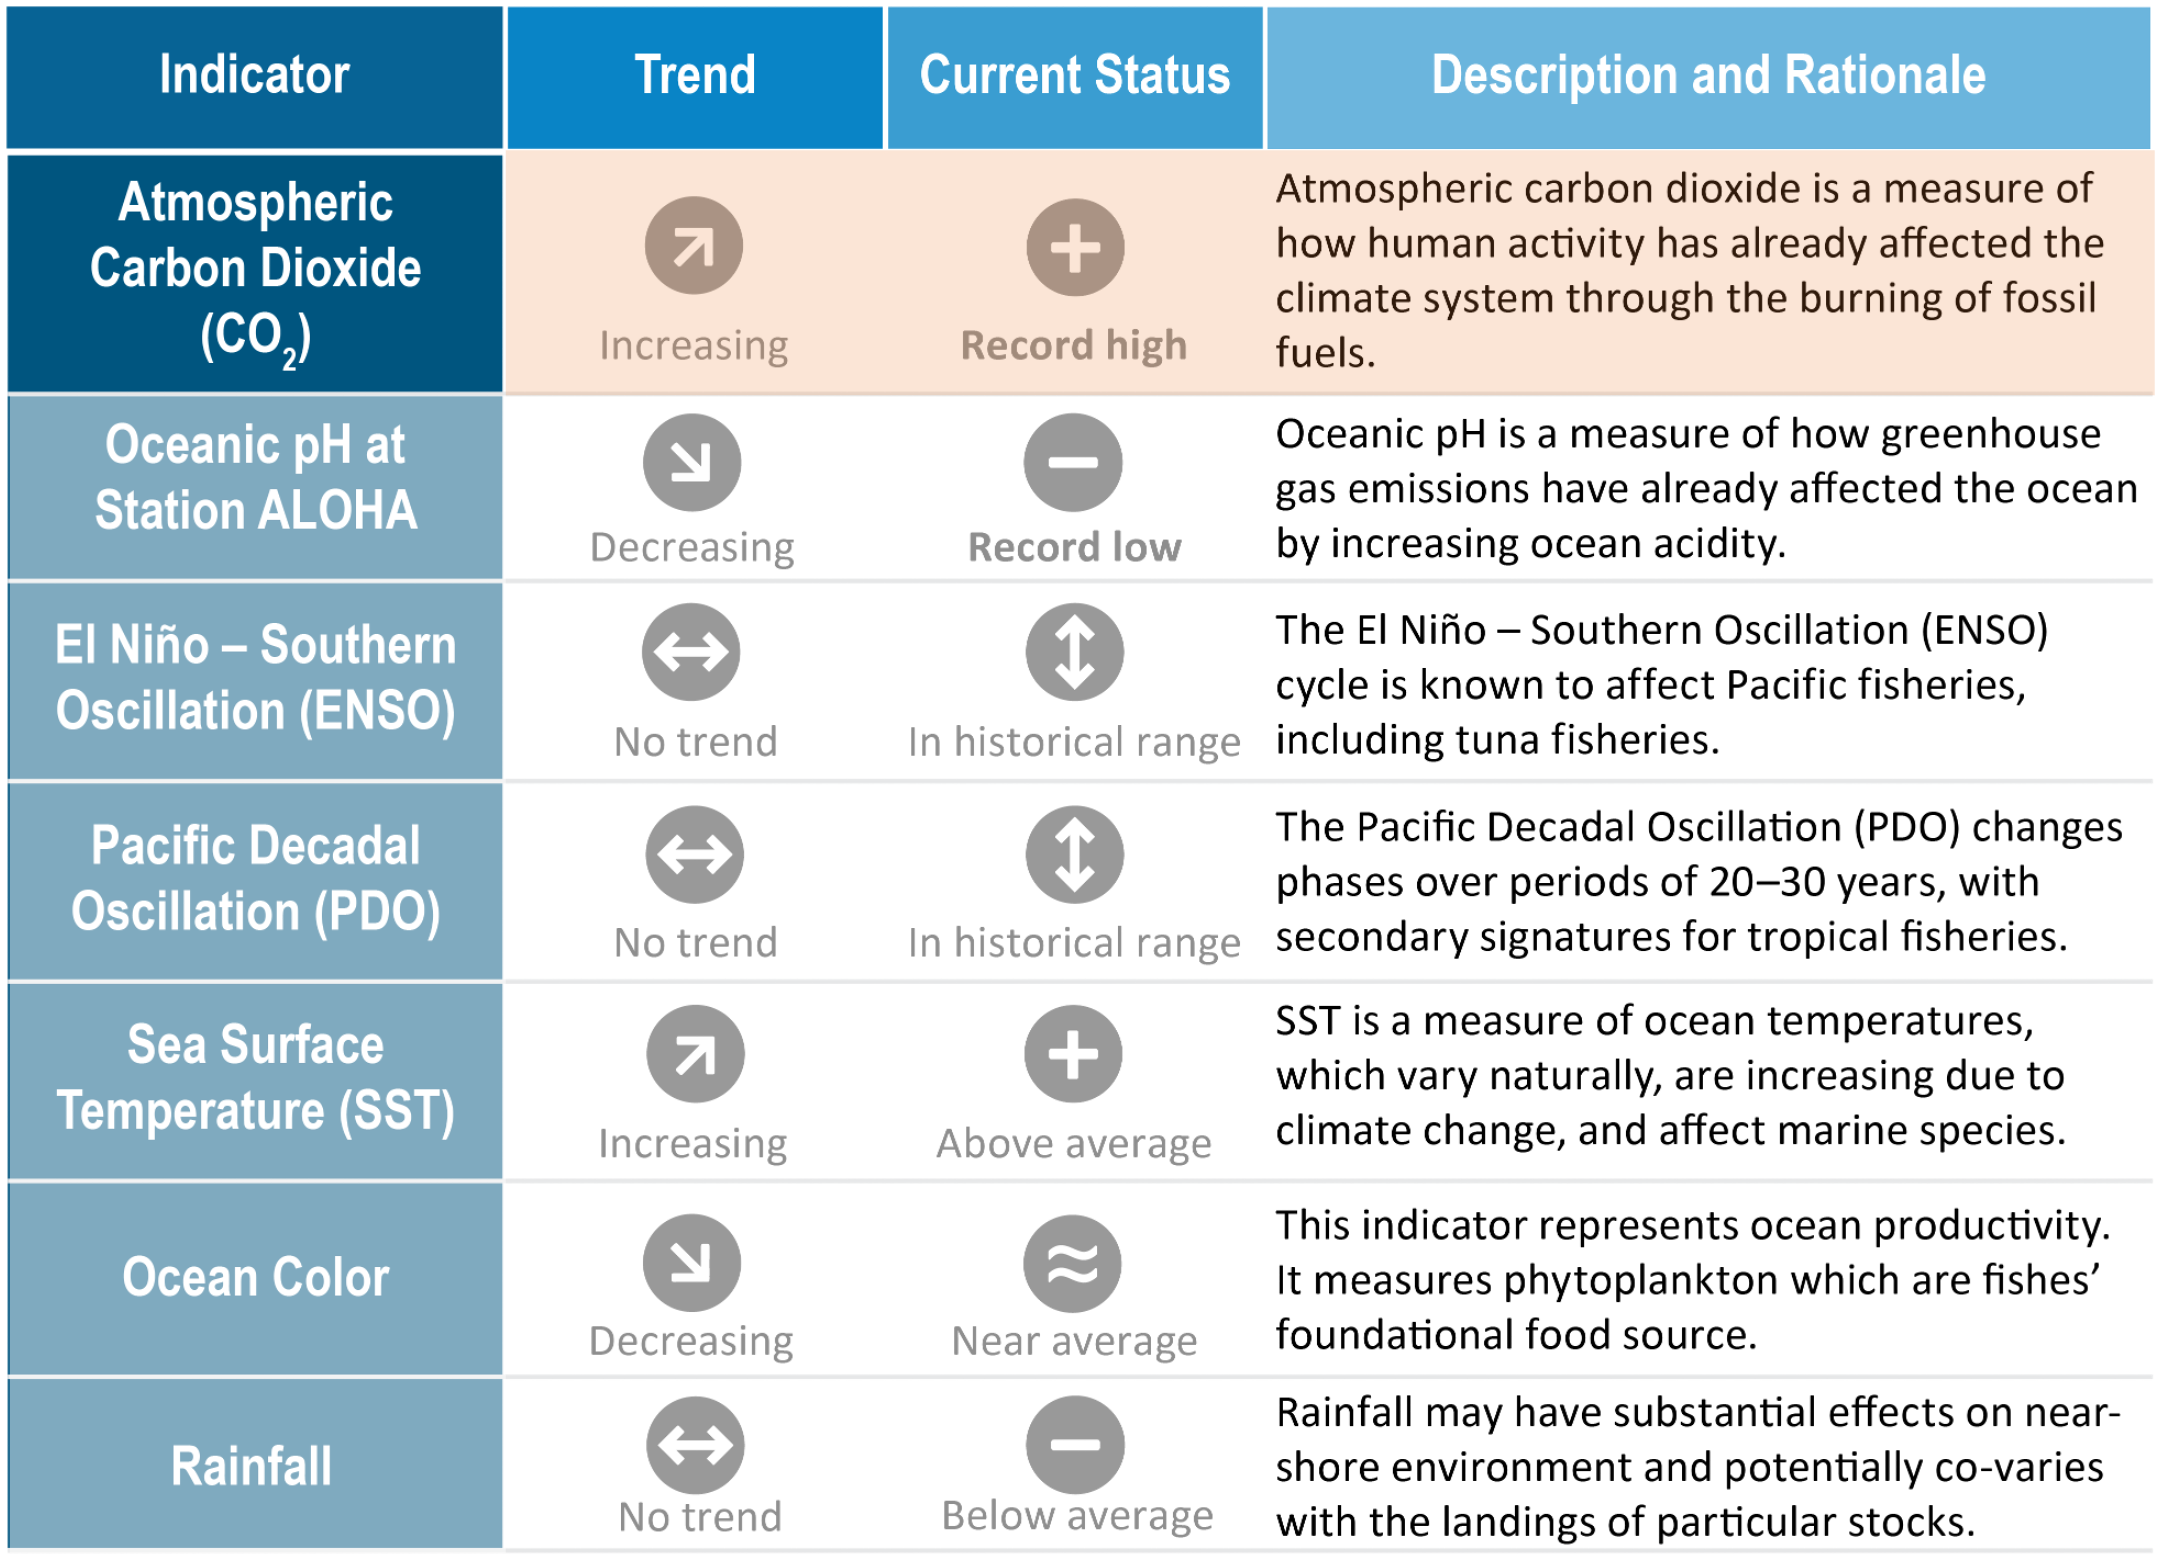
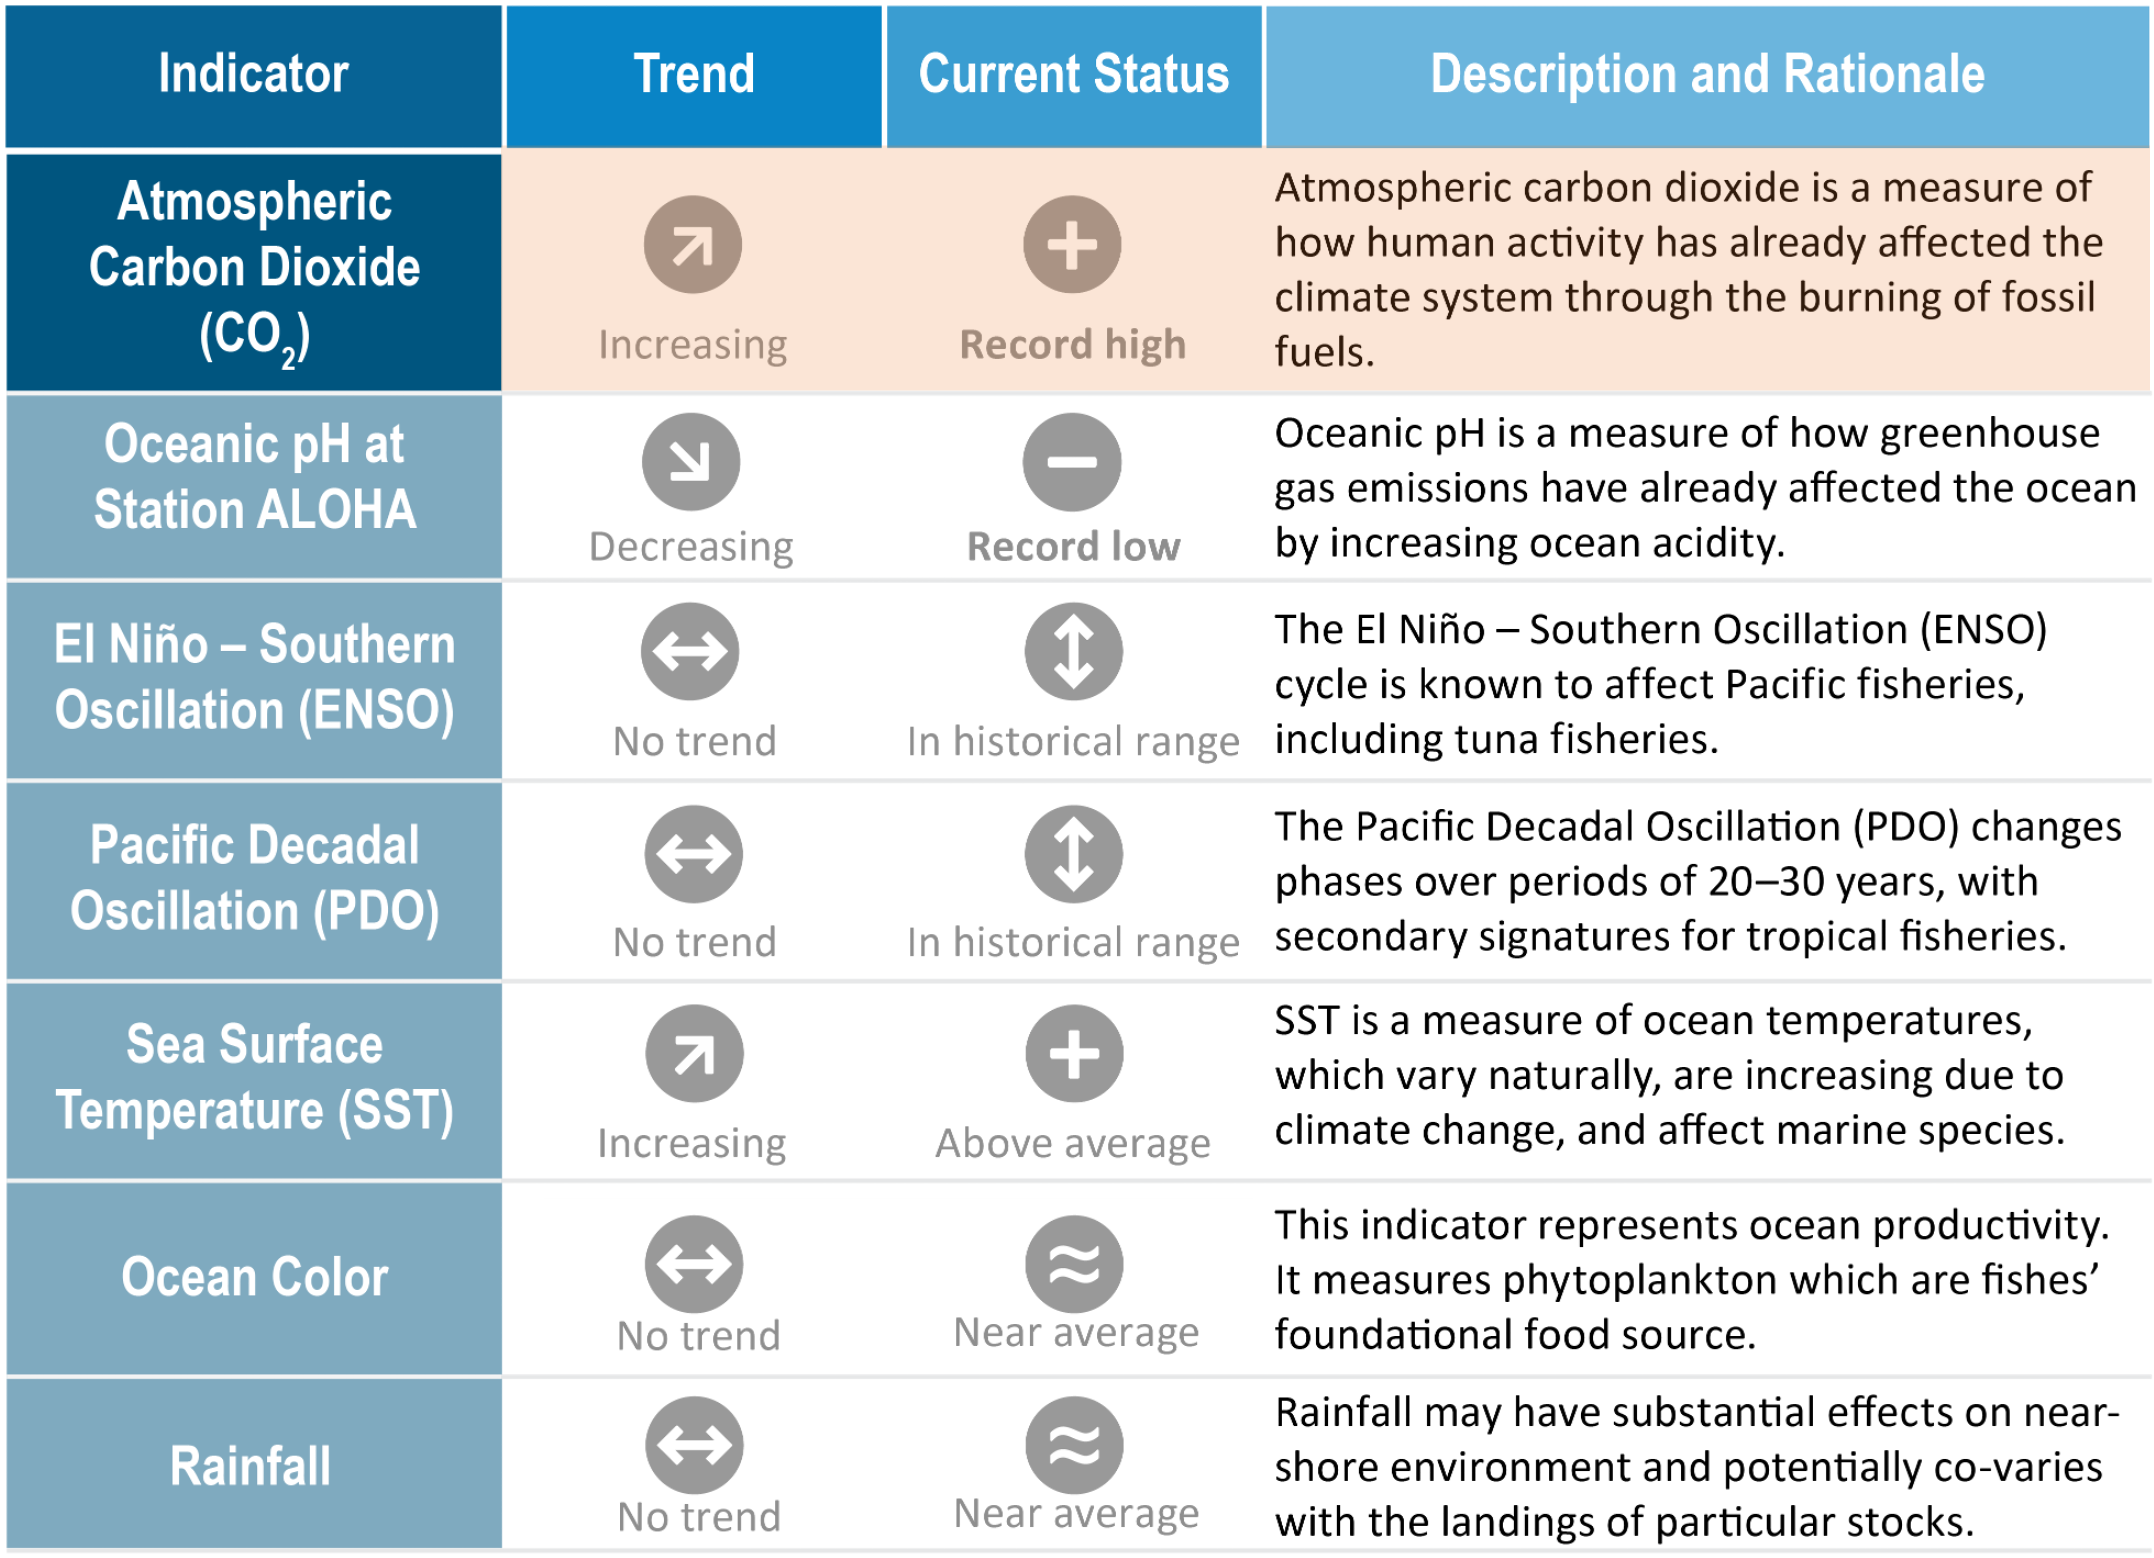
update descriptions and images

diff --git a/Indicator_Dashboard_AS/Descriptions/Chl_description.md b/Indicator_Dashboard_AS/Descriptions/Chl_description.md
@@ -7,13 +7,13 @@ Chlorophyll-a is one of the most directly observable measures we have
 for tracking increasing ocean productivity.
 
 **Status of the Indicator**  
-Annual mean chlorophyll concentration was 0.055 mg chl m<sup>-3</sup> in
-2024. Monthly mean chlorophyll concentrations ranged from 0.049–0.06 mg
+Annual mean chlorophyll concentration was 0.078 mg chl m<sup>-3</sup> in
+2024. Monthly mean chlorophyll concentrations ranged from 0.066–0.092 mg
 chl m<sup>-3</sup>, which was within the range of values observed during
-the previous years of the time series (0.037–0.088 mg chl
-m<sup>-3</sup>). Chlorophyll concentrations were lower than average with
-an area of above average chlorophyll concentration near the main islands
-of Samoa.
+the previous years of the time series (0.057–0.12 mg chl
+m<sup>-3</sup>). Chlorophyll concentrations were near average with an
+area of above average chlorophyll concentration near the main islands of
+Samoa.
 
 **Indicator Data**  
 Description: Chlorophyll-a concentration from 1998-2024, derived from

diff --git a/Indicator_Dashboard_AS/Descriptions/Rainfall_description.md b/Indicator_Dashboard_AS/Descriptions/Rainfall_description.md
@@ -10,7 +10,7 @@ The rainfall over the Islands of American Samoa was 1.26 mm
 day<sup>-1</sup> in 2024. Monthly rainfall ranged from 0.299–2.62 mm
 day<sup>-1</sup> during the year, within the range of values observed
 over the period of record (0.242–7.53 mm day<sup>-1</sup>). Overall
-rainfall was below average in the American Samoa domain.
+rainfall was near average in the American Samoa domain.
 
 **Indicator Data**  
 Description: The CPC Merged Analysis of Precipitation (CMAP) is a
